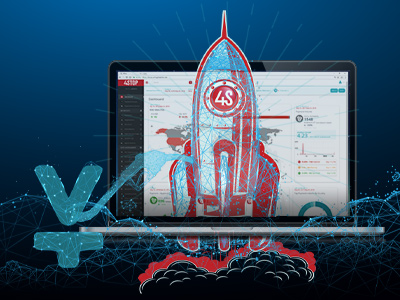
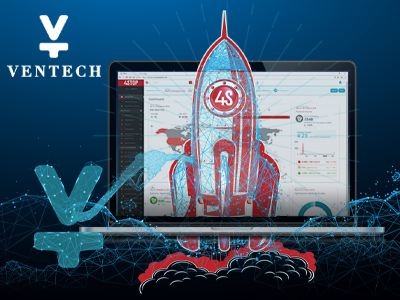
investor pr updates

Changed region(s): [[0.0, 0.03, 0.27, 0.27]]

diff --git a/media/ventechinvest-presser.html b/media/ventechinvest-presser.html
@@ -188,10 +188,10 @@
 						<div class="swiper-slide dark" style="background-image: url('images/banner/banner-pr-investment.jpg');">
 							<div class="container clearfix">
 								<div class="slider-caption slider-caption-left" style="margin-top:-10px; padding-right:70px;">
-									<p style="color:#FFF; line-height:1.3;" data-caption-animate="fadeInUp" data-caption-delay="200"><img class="image_fade" src="images/medialogos/ventech.png" width="225px"></p>
+									<p style="color:#FFF; line-height:1.3;" data-caption-animate="fadeInUp" data-caption-delay="200"><img src="images/medialogos/ventech.png" width="150px"></p>
 
-									<h2 class="topmargin-sm" style="color:#FFF;"  data-caption-animate="fadeInUp">Fuels Our Innovation.</h2>
-									<p style="color:#FFF; line-height:1.3;"  data-caption-animate="fadeInUp" data-caption-delay="200">“We’ve proud to announce today our successful completion of a German-based $2.5M Series A Round from Ventech to expand our global KYB, KYC, compliance and anti-fraud technology.<Br><br>
+									<h2 class="topmargin-xsm" style="color:#FFF;"  data-caption-animate="fadeInUp">Fuels Our Innovation.</h2>
+									<p class="topmargin-xsm" style="color:#FFF; line-height:1.3;"  data-caption-animate="fadeInUp" data-caption-delay="200">“We’re proud to announce today our successful completion of a German-based $2.5M Series A Round from Ventech to expand our global KYB, KYC, compliance and anti-fraud technology.<Br><br>
 										<a href="#section-presser" target="_blank" class="button button-dark button-rounded uppercase nomargin" style="padding-right:40px; padding-left:40px;">Read Now</a></p>
 								</div>
 							</div>
@@ -222,7 +222,12 @@
 
 						
 						<div class="col-md-12 left">
-								<h2 class="heading-block " style="font-weight:300; line-height:1.3;"><b>4Stop Closes $2.5M Series A Round to Expand Its Global KYB, KYC, Compliance and Anti-Fraud Technology</b><br><span style="font-size:20px; font-weight:300;">Press Release Published on May 15th, 2019. <a href="" target="_blank">View Press Release on Newswire.</a></span></h2>
+							<div class="col-md-2 topmargin-xsm">
+								<a href="https://www.ventechvc.com" target="_blank"><img src="images/medialogos/ventech2.jpg" width="150px;"></a><br><Br>
+							</div>
+							<div class="col-md-10 ">
+								<h2 class="heading-block " style="font-weight:300; line-height:1.3; color:#484f5e;"><b>4Stop Closes $2.5M Series A Round to Expand Its Global KYB, KYC, Compliance and Anti-Fraud Technology</b><br><span style="font-size:20px; font-weight:300;">Press Release Published on May 15th, 2019. <a href="" target="_blank">View Press Release on Newswire.</a></span></h2>
+							</div>
 						</div>
 
 						
@@ -230,7 +235,7 @@
 					<div class="col-md-12 left">
 						<hr>
 
-						<h3 style="font-size: 18px; font-weight: 300; line-height: 1.4; color:#484f5e;"><b>Cologne, Germany – May 15th, 2019 (NewsWire) – 4Stop (“FourStop GmbH”)</b> a leading global KYB, KYC, compliance and fraud prevention provider announces today its successful completion of a German-based $2.5 Million Series A Round Investment from Ventech (the leading pan-European VC fund investing in early-stage tech-driven start-ups).
+						<h3 style="font-size: 18px; font-weight: 300; line-height: 1.4; color:#484f5e;"><b>Cologne, Germany – May 15th, 2019 (NewsWire) – 4Stop (“FourStop GmbH”)</b> a leading global KYB, KYC, compliance and fraud prevention provider announces today its successful completion of a German-based $2.5 Million Series A Round Investment from <a href="https://www.ventechvc.com" target="_blank">Ventech</a> (the leading pan-European VC fund investing in early-stage tech-driven start-ups).
 
 						<br><br>
 						The syndication of the investment from Ventech and due-diligence process was performed by renowned leading international attorneys and audit companies based out of Germany. Following, 4Stop’s business, team, and current technology solutions received high standards of performance excellence. (For more information please contact <a href="mailto:finance@4stop.com">finance@4stop.com</a>). 
@@ -253,11 +258,11 @@
 
 						<br><br>
 
-						4Stop dramatically saves businesses time and money underwriting merchants, managing their anti-fraud processes and eliminates the need to integrate multiple 3rd party KYC data sources. “We provide businesses with near real-time KYB, thousands of global data points, hundreds of KYC data sources and leading-edge, smart anti-fraud technology, all from a single API integration. Ensuring the most efficient, optimal data experience and futureproofed risk management processes are obtained. Bringing confidence to every merchant onboarded through to their customers and associated transactions, empowering and accelerating business performance”, states Ernst.
+						4Stop dramatically saves businesses time and money <a href="../services/merchant-underwriting.html"> underwriting merchants</a>, managing their <a href="../anti-fraud.html">anti-fraud processes</a> and eliminates the need to integrate multiple 3rd party <a href="../services/know-your-customer.html">KYC data sources</a>. “We provide businesses with near real-time KYB, thousands of global data points, hundreds of KYC data sources and leading-edge, smart anti-fraud technology, all from a single API integration. Ensuring the most efficient, optimal data experience and futureproofed risk management processes are obtained. Bringing confidence to every merchant onboarded through to their customers and associated transactions, empowering and accelerating business performance”, states Ernst.
 
 						<br><br>
 
-						4Stop’s technology has received “Best Financial Transaction Security Platform” by Fintech Breakthrough Award earlier in 2019 and has received “Best Risk Management Solution Provider” in 2017 and 2018. Additionally, 4Stop’s value proposition has already been implemented by global payment and crypto leaders including Mifinity, Paymentz, Paysend, Gatehub and Draglet.
+						4Stop’s technology has received <a href="fintechaward-2019.html">“Best Financial Transaction Security Platform”</a> by Fintech Breakthrough Award earlier in 2019 and has received “Best Risk Management Solution Provider” in 2017 and 2018. Additionally, 4Stop’s value proposition has already been implemented by global payment and crypto leaders including Mifinity, Paymentz, Paysend, Gatehub and Draglet.
 						</h3>
 					</div>
 
@@ -507,7 +512,7 @@
 	============================================= -->
 	<script type="text/javascript" src="../js/functions.js"></script>
 
-
+<!-- Go to www.addthis.com/dashboard to customize your tools --> <script type="text/javascript" src="//s7.addthis.com/js/300/addthis_widget.js#pubid=ra-5cd44df507e39160"></script>
 
 </body>
 </html>

diff --git a/index.html b/index.html
@@ -195,10 +195,10 @@
 						<div class="swiper-slide dark" style="background-image: url('media/images/banner/banner-pr-investment.jpg');">
 							<div class="container clearfix">
 								<div class="slider-caption slider-caption-left" style="margin-top:-10px; padding-right:70px;">
-									<p style="color:#FFF; line-height:1.3;" data-caption-animate="fadeInUp" data-caption-delay="200"><img class="image_fade" src="media/images/medialogos/ventech.png" width="150px"></p>
+									<p style="color:#FFF; line-height:1.3;" data-caption-animate="fadeInUp" data-caption-delay="200"><img src="media/images/medialogos/ventech.png" width="150px"></p>
 
-									<h2 class="topmargin-sm" style="color:#FFF;"  data-caption-animate="fadeInUp">Fuels Our Innovation.</h2>
-									<p style="color:#FFF; line-height:1.3;"  data-caption-animate="fadeInUp" data-caption-delay="200">“We’ve proud to announce today our successful completion of a German-based $2.5M Series A Round from Ventech to expand our global KYB, KYC, compliance and anti-fraud technology.<Br><br>
+									<h2 class="topmargin-xsm" style="color:#FFF;"  data-caption-animate="fadeInUp">Fuels Our Innovation.</h2>
+									<p class="topmargin-xsm" style="color:#FFF; line-height:1.3;"  data-caption-animate="fadeInUp" data-caption-delay="200">“We’re proud to announce today our successful completion of a German-based $2.5M Series A Round from Ventech to expand our global KYB, KYC, compliance and anti-fraud technology.<Br><br>
 										<a href="media/ventechinvest-presser.html#section-presser" target="_blank" class="button button-dark button-rounded uppercase nomargin" style="padding-right:40px; padding-left:40px;">Read Press Release</a></p>
 								</div>
 							</div>
@@ -211,7 +211,7 @@
 
 									<h2 class="topmargin-sm" style="color:#FFF;"  data-caption-animate="fadeInUp">Ian Green Joins As Our CSO.</h2>
 									<p style="color:#FFF; line-height:1.3;"  data-caption-animate="fadeInUp" data-caption-delay="200">“We’re excited to have Ian join our executive team during a period of significant growth and innovation. His expertise in sales execution will help us improve our value proposition and deliver relevant and actionable insights." states Ingo Ernst, CEO<Br><br>
-										<a href="media/newcso-presser.html#section-presser" target="_blank" class="button button-dark button-rounded uppercase nomargin" style="padding-right:40px; padding-left:40px;">Read Press Release</a></p>
+										<a href="media/newcso-presser.html#section-presser" target="_blank" class="button button-dark button-rounded uppercase nomargin" style="padding-right:40px; padding-left:40px;">Read Press Release</a>&nbsp;&nbsp;&nbsp; <a href="https://www.linkedin.com/in/ian-green-29783/" target="_blank" class="button button-blue button-rounded uppercase nomargin" style="padding-right:40px; padding-left:40px;"><i class="icon-linkedin" style="font-size:18px;"></i><i class="icon-arrow-right" style="font-size:18px;"></i>With Ian</a></p>
 								</div>
 							</div>
 						</div>
@@ -982,7 +982,7 @@
 									<a href="media/ventechinvest-presser.html" target="_blank"><img class="image_fade" src="media/images/homepage/news-hp-investpr.jpg"></a>
 								</div>
 								<div class="entry-title">
-									<h4><a href="media/ventechinvest-presser.html" target="_blank">Ventech Fuels Our Innovation. We've successful completion of a German-based $2.5M Series A Round from Ventech...</a></h4><br>
+									<h4><a href="media/ventechinvest-presser.html" target="_blank">Ventech Fuels Our Innovation. Announcing our successful completion of a German-based $2.5M Series A Round...</a></h4><br>
 								</div>
 								<ul class="entry-meta clearfix">
 									<li><i class="icon-calendar3"></i> May 15th, 2019<Br><br>
@@ -1298,7 +1298,7 @@
 	<script type="text/javascript" src="js/functions.js"></script>
 
   <!--End Cookie Script-->
-
+<!-- Go to www.addthis.com/dashboard to customize your tools --> <script type="text/javascript" src="//s7.addthis.com/js/300/addthis_widget.js#pubid=ra-5cd44df507e39160"></script>
 
 </body>
 </html>

diff --git a/media/index.html b/media/index.html
@@ -184,13 +184,13 @@
 					
 
 						
-						<div class="swiper-slide dark" style="background-image: url('media/images/banner/banner-pr-investment.jpg');">
+						<div class="swiper-slide dark" style="background-image: url('images/banner/banner-pr-investment.jpg');">
 							<div class="container clearfix">
 								<div class="slider-caption slider-caption-left" style="margin-top:-10px; padding-right:70px;">
-									<p style="color:#FFF; line-height:1.3;" data-caption-animate="fadeInUp" data-caption-delay="200"><img class="image_fade" src="media/images/medialogos/ventech.png" width="225px"></p>
+									<p style="color:#FFF; line-height:1.3;" data-caption-animate="fadeInUp" data-caption-delay="200"><img src="images/medialogos/ventech.png" width="150px"></p>
 
-									<h2 class="topmargin-sm" style="color:#FFF;"  data-caption-animate="fadeInUp">Fuels Our Innovation.</h2>
-									<p style="color:#FFF; line-height:1.3;"  data-caption-animate="fadeInUp" data-caption-delay="200">“We’ve proud to announce today our successful completion of a German-based $2.5M Series A Round from Ventech to expand our global KYB, KYC, compliance and anti-fraud technology.<Br><br>
+									<h2 class="topmargin-xsm" style="color:#FFF;"  data-caption-animate="fadeInUp">Fuels Our Innovation.</h2>
+									<p class="topmargin-xsm" style="color:#FFF; line-height:1.3;"  data-caption-animate="fadeInUp" data-caption-delay="200">“We’re proud to announce today our successful completion of a German-based $2.5M Series A Round from Ventech to expand our global KYB, KYC, compliance and anti-fraud technology.<Br><br>
 										<a href="media/ventechinvest-presser.html#section-presser" target="_blank" class="button button-dark button-rounded uppercase nomargin" style="padding-right:40px; padding-left:40px;">Read Press Release</a></p>
 								</div>
 							</div>
@@ -240,14 +240,14 @@
 								<a href="newcso-presser.html" target="_blank"><img class="image_fade" src="images/ianpr-thumblg.jpg" alt="New CSO"></a>
 							</div>
 							<div class="entry-title">
-								<h2><a href="newcso-presser.html" target="_blank">Ian Green Joins As Our CSO.</a></h2>
+								<h2><a href="newcso-presser.html" target="_blank">New Team Hire<br>Ian Green Joins As Our CSO.</a></h2>
 							</div>
 							<ul class="entry-meta clearfix">
 								<li><i class="icon-calendar3"></i> May 7th 2019</li>
 								<li><i class="icon-newspaper"></i></li>
 							</ul>
 							<div class="entry-content">
-								<p>C“We’re excited to have Ian join our executive team during a period of significant growth and innovation. His expertise in sales execution will help us improve our value proposition and deliver relevant and actionable insights." states Ingo Ernst, CEO...</p>
+								<p>“We’re excited to have Ian join our executive team during a period of significant growth and innovation. His expertise in sales execution will help us improve our value proposition and deliver relevant and actionable insights." states Ingo Ernst, CEO...</p>
 								<a href="newcso-presser.html" target="_blank" class="more-link">Read Press Release</a>
 							</div>
 						</div>
@@ -1070,7 +1070,7 @@
 	============================================= -->
 	<script type="text/javascript" src="../js/functions.js"></script>
 
-
+<!-- Go to www.addthis.com/dashboard to customize your tools --> <script type="text/javascript" src="//s7.addthis.com/js/300/addthis_widget.js#pubid=ra-5cd44df507e39160"></script>
 
 </body>
 </html>

diff --git a/media/flashfx-presser.html b/media/flashfx-presser.html
@@ -485,7 +485,7 @@ This rigour has helped us become the first Australian digital currency business 
 	============================================= -->
 	<script type="text/javascript" src="../js/functions.js"></script>
 
-
+<!-- Go to www.addthis.com/dashboard to customize your tools --> <script type="text/javascript" src="//s7.addthis.com/js/300/addthis_widget.js#pubid=ra-5cd44df507e39160"></script>
 
 </body>
 </html>

diff --git a/company/careers.html b/company/careers.html
@@ -557,7 +557,7 @@ a.async=true;a.type="text/javascript";b.parentNode.insertBefore(a,b)}, 1);
 	============================================= -->
 	<script type="text/javascript" src="../js/functions.js"></script>
 
-
+<!-- Go to www.addthis.com/dashboard to customize your tools --> <script type="text/javascript" src="//s7.addthis.com/js/300/addthis_widget.js#pubid=ra-5cd44df507e39160"></script>
 
 </body>
 </html>

diff --git a/services/kyc-coverage.html b/services/kyc-coverage.html
@@ -841,7 +841,7 @@ a.async=true;a.type="text/javascript";b.parentNode.insertBefore(a,b)}, 1);
 		$( "#side-navigation" ).tabs({ show: { effect: "fade", duration: 400 } });
 	});
 </script>
-   
+   <!-- Go to www.addthis.com/dashboard to customize your tools --> <script type="text/javascript" src="//s7.addthis.com/js/300/addthis_widget.js#pubid=ra-5cd44df507e39160"></script>
 
 
 </body>

diff --git a/book-demo.html b/book-demo.html
@@ -473,7 +473,7 @@
 	<!-- Footer Scripts
 	============================================= -->
 	<script type="text/javascript" src="js/functions.js"></script>
-
+<!-- Go to www.addthis.com/dashboard to customize your tools --> <script type="text/javascript" src="//s7.addthis.com/js/300/addthis_widget.js#pubid=ra-5cd44df507e39160"></script>
 
 </body>
 </html>

diff --git a/services/data-services.html b/services/data-services.html
@@ -550,7 +550,7 @@
 	<!-- Footer Scripts
 	============================================= -->
 	<script type="text/javascript" src="../js/functions.js"></script>
-
+<!-- Go to www.addthis.com/dashboard to customize your tools --> <script type="text/javascript" src="//s7.addthis.com/js/300/addthis_widget.js#pubid=ra-5cd44df507e39160"></script>
 
 
 </body>

diff --git a/media/4stop-customerqueue.html b/media/4stop-customerqueue.html
@@ -479,7 +479,7 @@
 	============================================= -->
 	<script type="text/javascript" src="../js/functions.js"></script>
 
-
+<!-- Go to www.addthis.com/dashboard to customize your tools --> <script type="text/javascript" src="//s7.addthis.com/js/300/addthis_widget.js#pubid=ra-5cd44df507e39160"></script>
 
 </body>
 </html>

diff --git a/media/4stop-dashboardlaunch-presser.html b/media/4stop-dashboardlaunch-presser.html
@@ -501,7 +501,7 @@
 	============================================= -->
 	<script type="text/javascript" src="../js/functions.js"></script>
 
-
+<!-- Go to www.addthis.com/dashboard to customize your tools --> <script type="text/javascript" src="//s7.addthis.com/js/300/addthis_widget.js#pubid=ra-5cd44df507e39160"></script>
 
 </body>
 </html>

diff --git a/media/4stop-ff-kyctv.html b/media/4stop-ff-kyctv.html
@@ -446,7 +446,7 @@
 	============================================= -->
 	<script type="text/javascript" src="../js/functions.js"></script>
 
-
+<!-- Go to www.addthis.com/dashboard to customize your tools --> <script type="text/javascript" src="//s7.addthis.com/js/300/addthis_widget.js#pubid=ra-5cd44df507e39160"></script>
 
 </body>
 </html>

diff --git a/media/4stop-paypersinterview062018.html b/media/4stop-paypersinterview062018.html
@@ -552,7 +552,7 @@
 	============================================= -->
 	<script type="text/javascript" src="../js/functions.js"></script>
 
-
+<!-- Go to www.addthis.com/dashboard to customize your tools --> <script type="text/javascript" src="//s7.addthis.com/js/300/addthis_widget.js#pubid=ra-5cd44df507e39160"></script>
 
 </body>
 </html>
